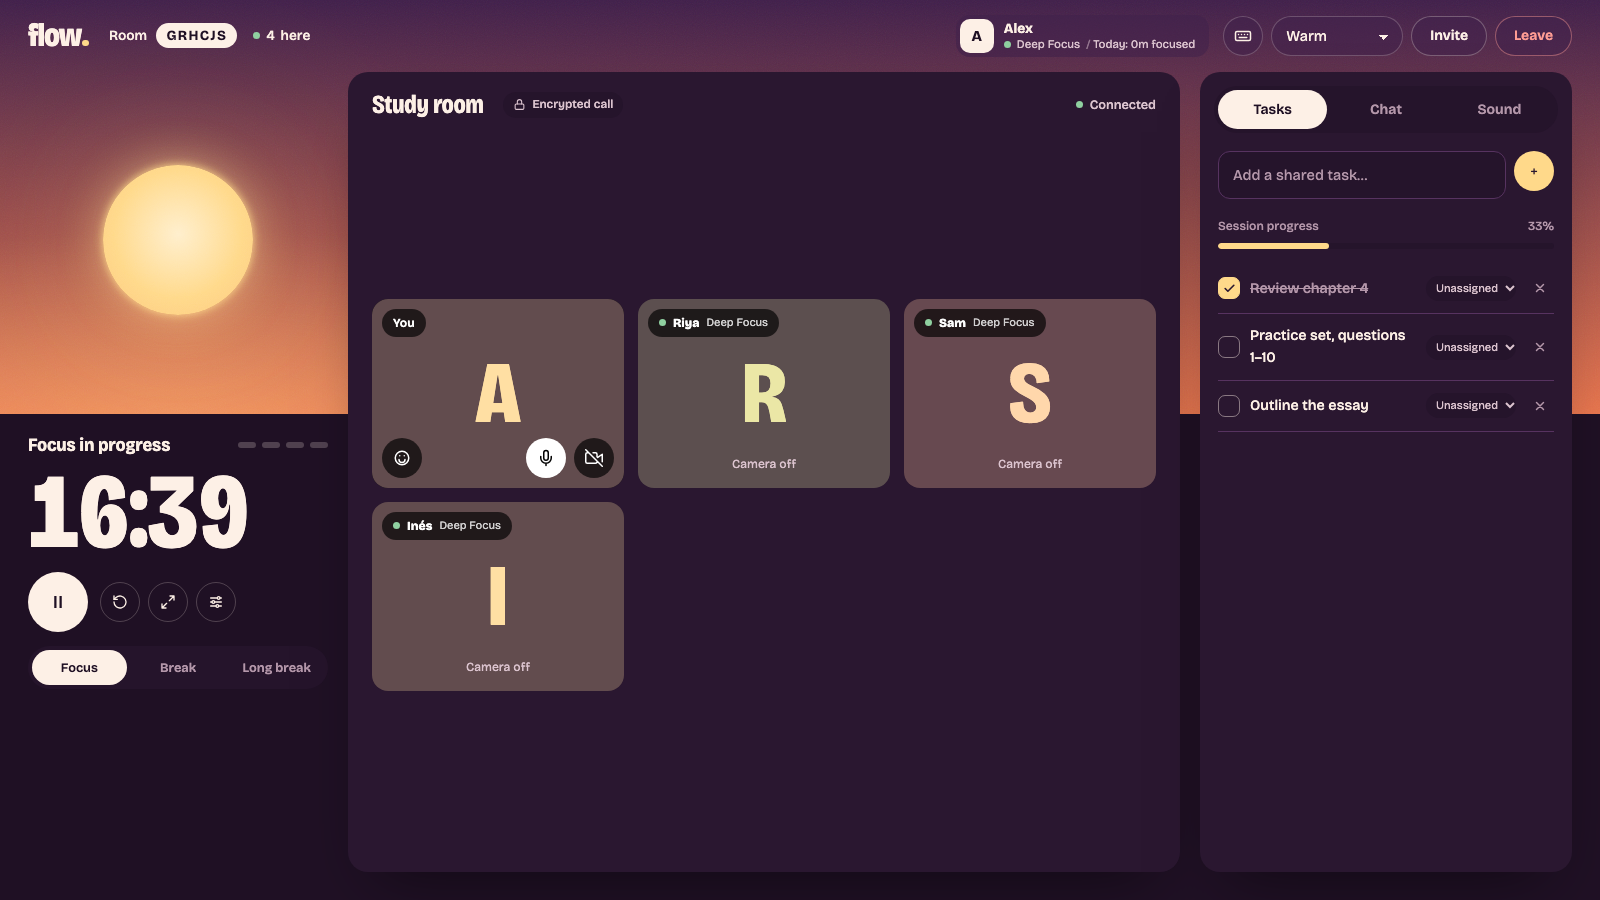
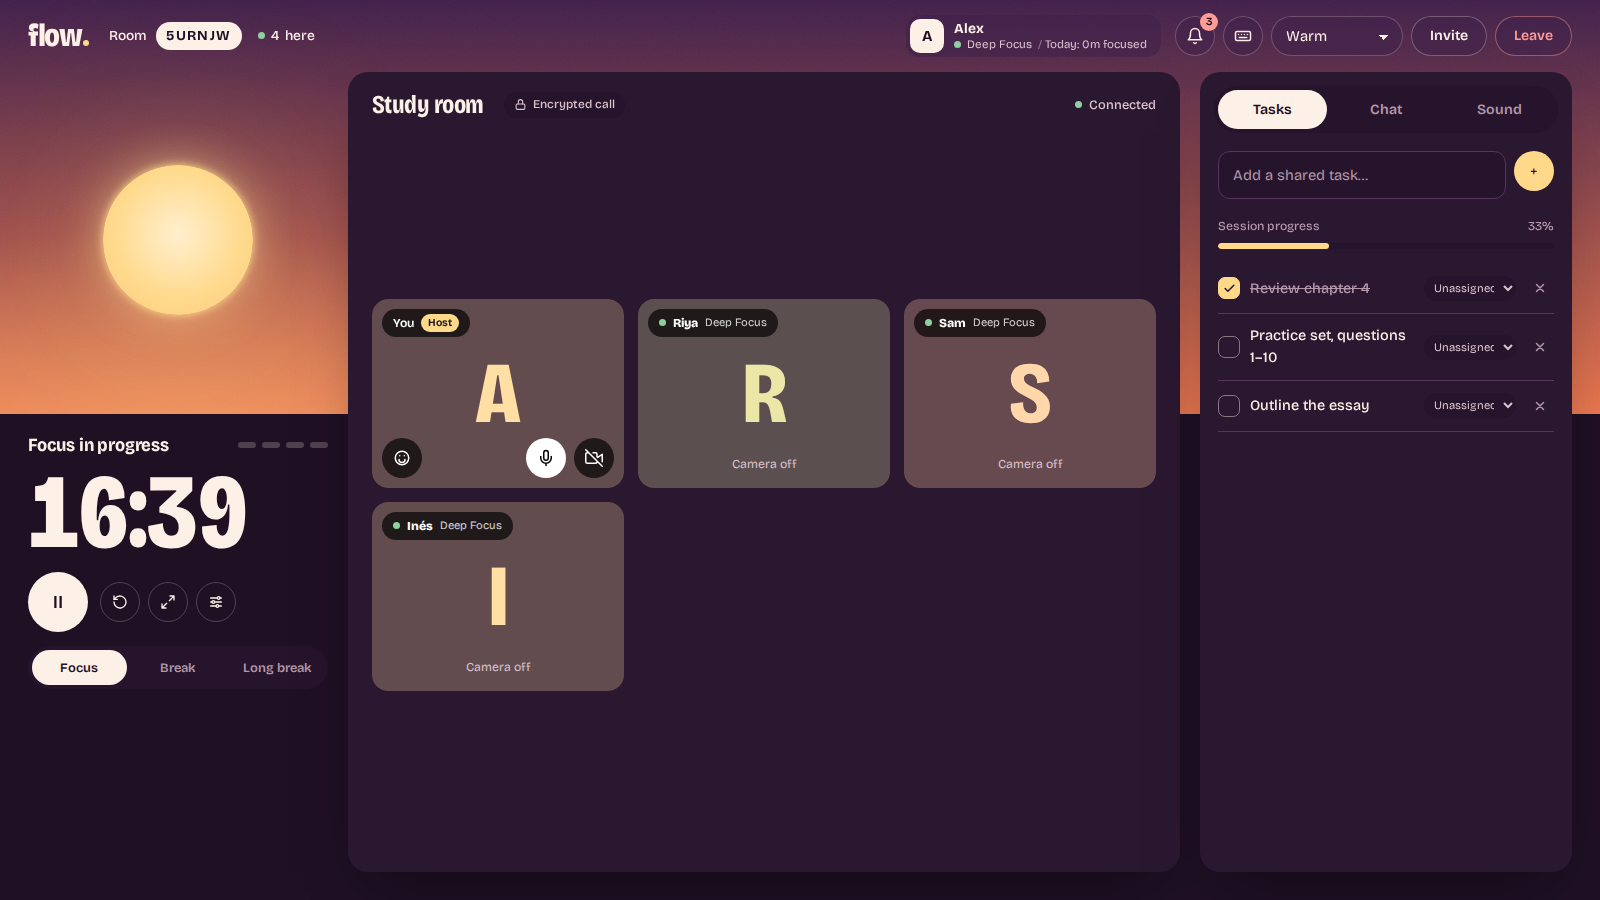
Refresh the product screenshots
The landing page's room preview and the stills in marketing/images were
captured before the home screen and the notification bell existed.
Regenerate them with npm run build && npm run marketing:images, which
now includes home.png, and make public/room-preview.webp from the new
room still with cwebp -q 84.

The new preview is 1600 x 900, the size of the room still, so its width
and height attributes in index.astro say so. Its alt text still fits:
the sun and clock are on the left, partners in the middle and tasks on
the right. The launch kit lists home.png with the other stills.

The images were rendered on ubuntu-latest with Node 24, the platform
the repository's CI uses.

Closes #39

diff --git a/marketing/launch-kit.md b/marketing/launch-kit.md
@@ -113,6 +113,7 @@ Ready to post, in `marketing/images/` (1600 × 900, the shape X and LinkedIn sho
 | Thread 2/ and 3/ | `room.png`, `focus-mode.png` |
 | Thread 4/, the study-groups post | `study-groups.png` |
 | Thread 5/, the "drag the sun" post | `setup-drag-the-sun.png` |
+| A post about getting started | `home.png` (the home screen you land on after signing in) |
 
 Regenerate them with `npm run build && npm run marketing:images` (the GIF needs `ffmpeg`). Set `FLOW_MARKETING_SKY=midnight` or any other sky to change the look.
 
